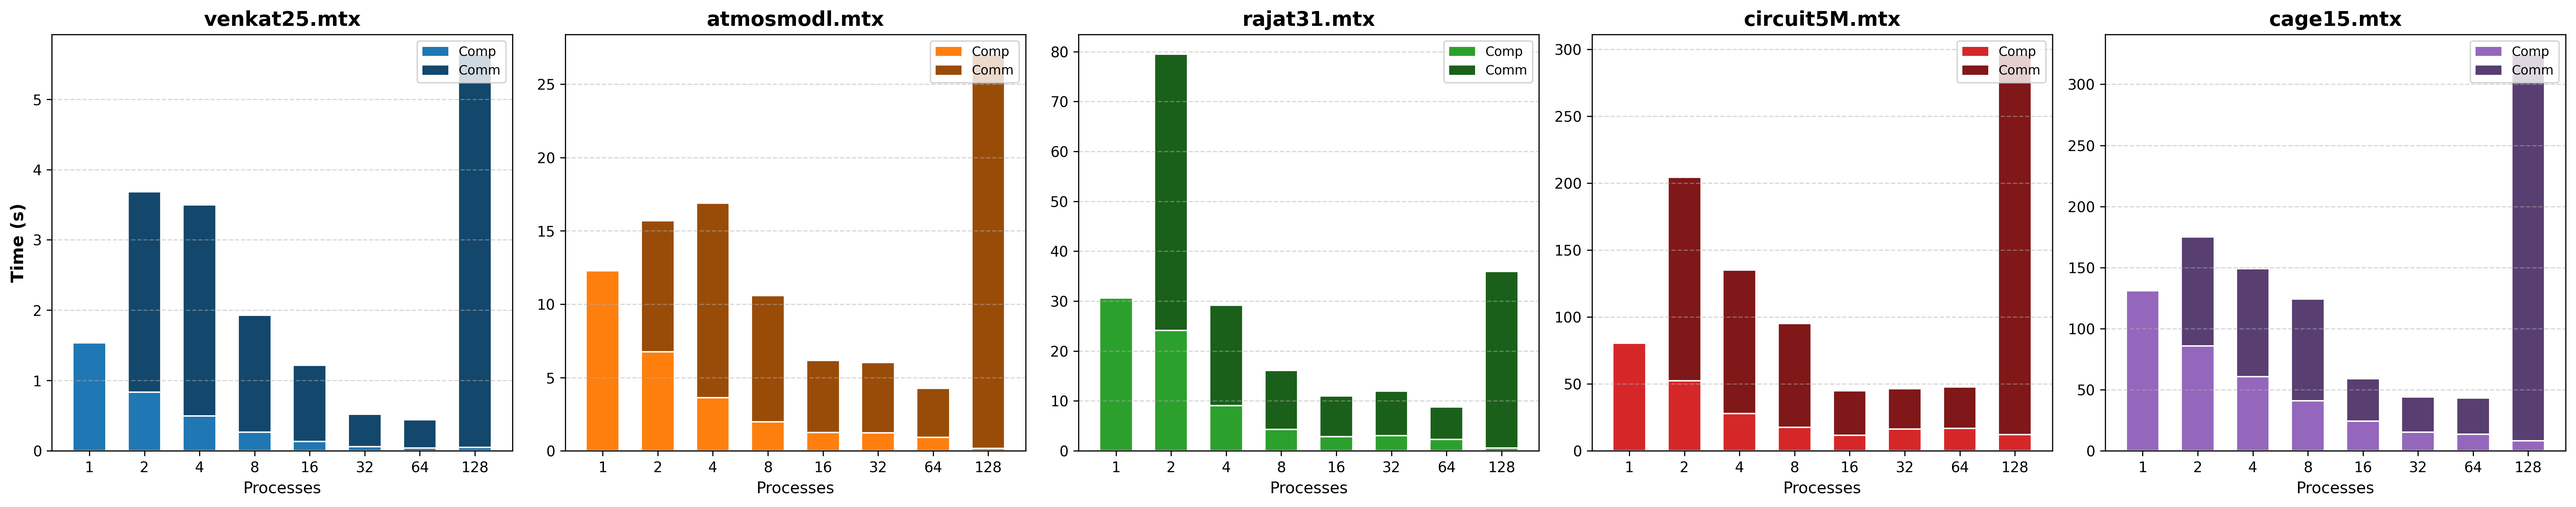
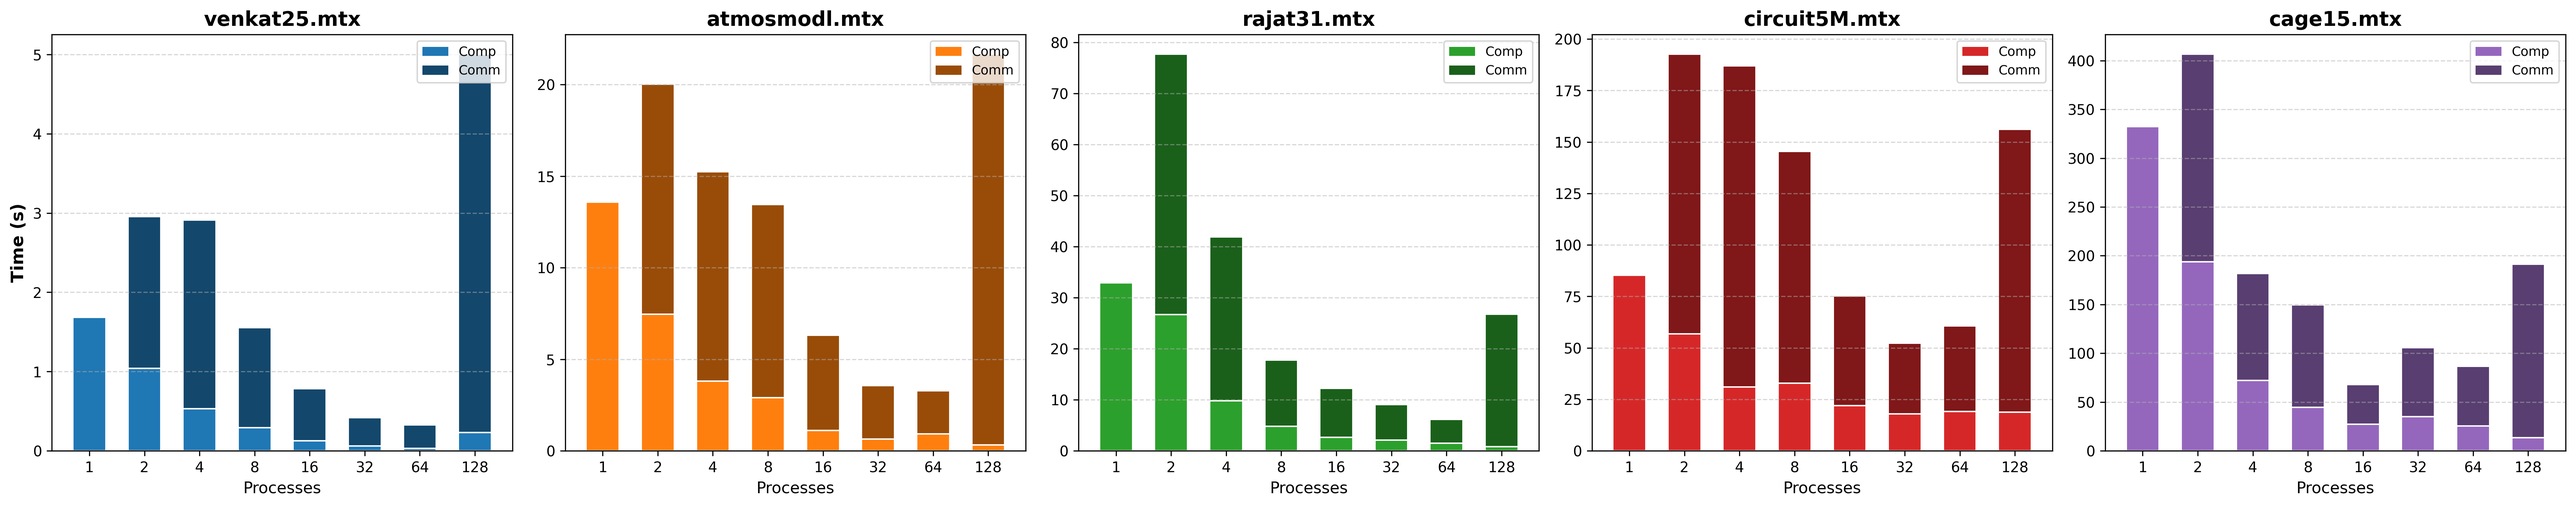
optimization

diff --git a/D2/src/main.c b/D2/src/main.c
@@ -101,11 +101,13 @@ int main(int argc, char *argv[]){
     int total_ghosts = ghost_get_total_ghosts(&gp);
     double *x_extended = (double*)malloc((local.my_M + total_ghosts) * sizeof(double));
 
+    //copy local part
+    memcpy(x_extended, v_local, local.my_M * sizeof(double));
+
     // cache warmup
     int warmup = 3;
     for(int i=0; i<warmup; i++){
         ghost_exchange_values(&gp, v_local, x_extended + local.my_M, MPI_COMM_WORLD);
-        memcpy(x_extended, v_local, local.my_M * sizeof(double));
         ghost_local_SpMV(&local_matrix, x_extended, y, local.my_M);
     }
     for(int row = 0; row < local.my_M; row++){
@@ -126,9 +128,6 @@ int main(int argc, char *argv[]){
         GET_TIME(end);
 
         times_comm[i] = (end - start) * 1000.0;
-
-        // Copy local part
-        memcpy(x_extended, v_local, local.my_M * sizeof(double));
 
         GET_TIME(start);
         ghost_local_SpMV(&local_matrix, x_extended, y, local.my_M);
